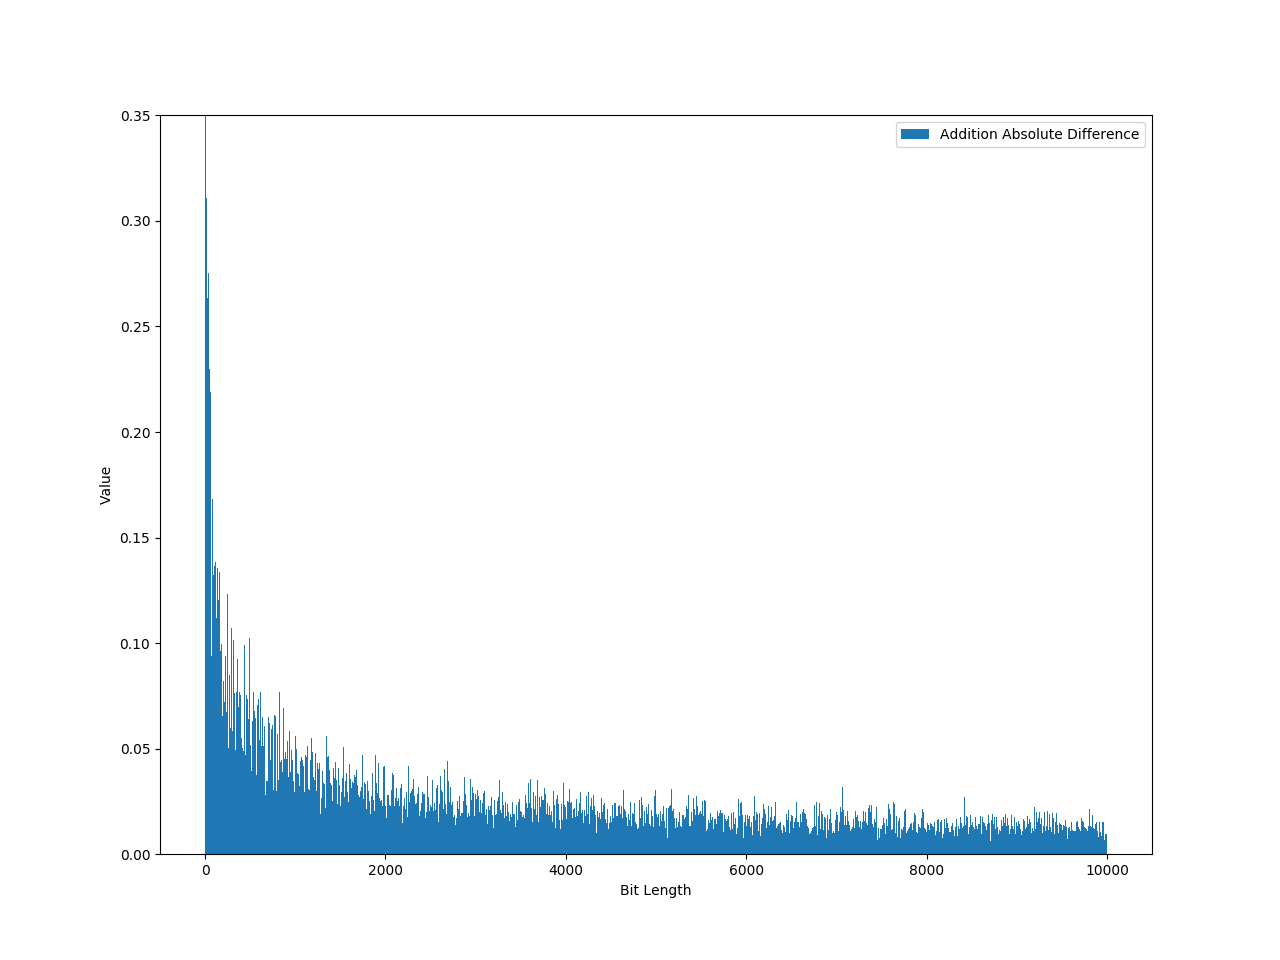
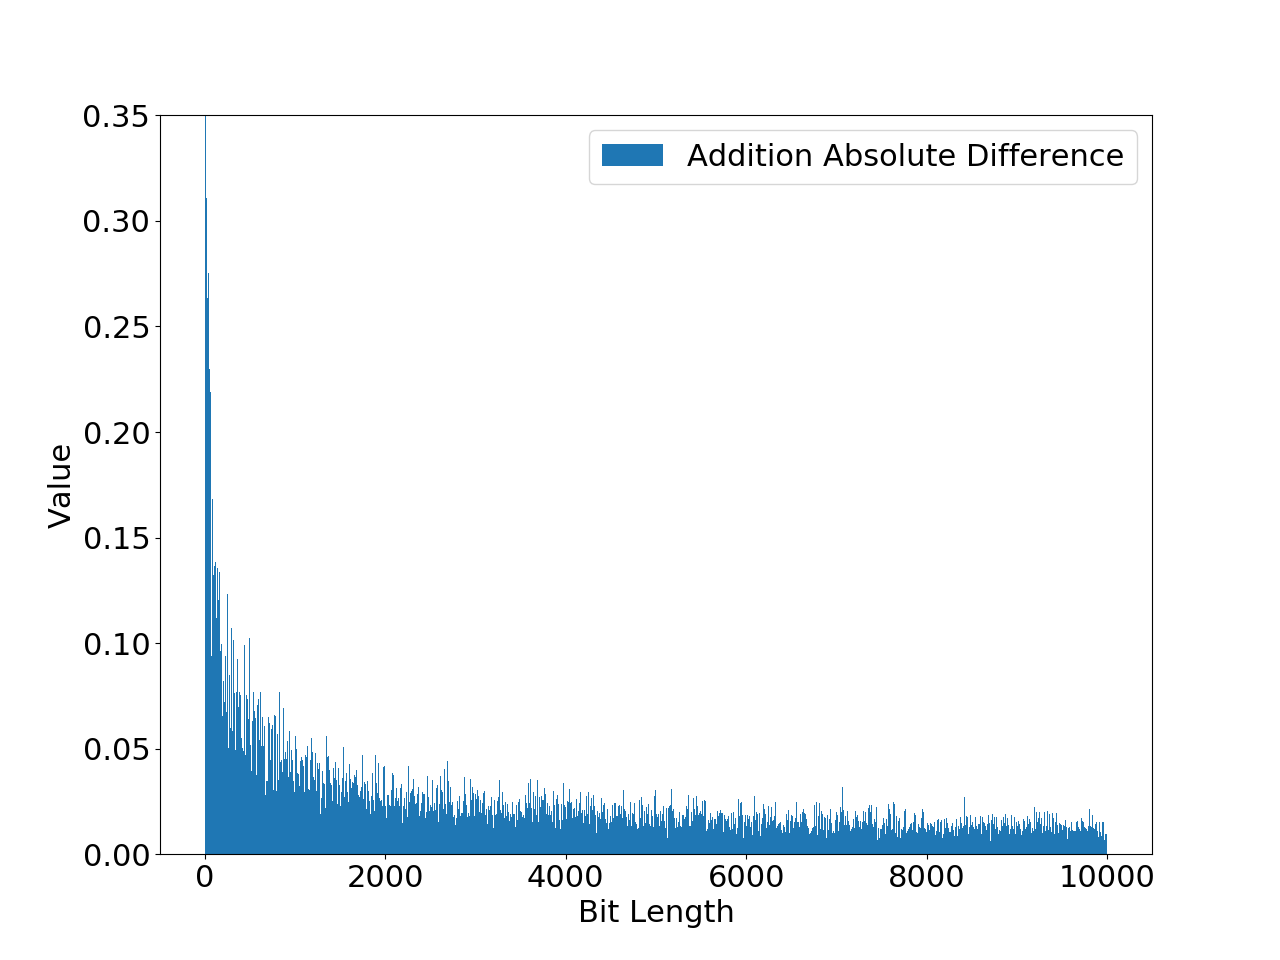
Final stuff

diff --git a/demos/stochastic-step.py b/demos/stochastic-step.py
@@ -1,0 +1,152 @@
+# -*- coding: utf-8 -*-
+"""
+This little code illustrates results of adding and multiplying 2 stochastic bit
+streams of varying length (length default 16). The stochastic bit streams are
+set by probabilities, prob1 and prob2.
+
+The stochastic bit stream outputs are converted back to a probability for ease
+of visualisation. The plots show the probabilities vary around their ideal 
+value.
+
+@author: tarah
+"""
+import math
+import secrets
+import matplotlib.pyplot as plt
+
+class StochasticNumber:
+    def __init__(self,length,prob1,prob2):
+        random = secrets.SystemRandom()
+
+        self.length = length
+        self.stochnum1 = [random.random() <= prob1 for n in range(length)]
+        self.stochnum2 = [random.random() <= prob2 for n in range(length)]
+
+    def add(self):
+        out = [0 for n in range(self.length)]
+        sel = [secrets.randbelow(2) for n in range(self.length)] # this will (on average) give weighting of 0.5
+
+        # Non saturating addition
+        #for k in range(self.length):
+        #    # Add is a multiplexer with 2 inputs and select line that is on average 0.5
+        #    if sel[k]:              
+        #        out[k]=self.stochnum2[k]
+        #    else:
+        #        out[k]=self.stochnum1[k]
+
+        # Saturating addition
+        for k in range(self.length):
+            out[k] = self.stochnum1[k] | self.stochnum2[k] #Saturating addition is just logical OR
+
+        prob_out = sum(out)/float(self.length)
+        return prob_out
+    
+    def multiply(self):
+        out = [0 for n in range(self.length)]
+        for k in range(self.length):
+            out[k] = (self.stochnum1[k] & self.stochnum2[k]) # multiply is just logical AND
+        prob_out = sum(out)/float(self.length)
+        return prob_out
+
+class BiStochasticNumber:
+    def __init__(self,length,prob1,prob2):
+        random = secrets.SystemRandom()
+
+        self.length = length
+        self.stochnum1 = [random.random() <= (prob1+1)/2 for n in range(length)]
+        self.stochnum2 = [random.random() <= (prob2+1)/2 for n in range(length)]
+
+    def add(self):
+        out = [0 for n in range(self.length)]
+        sel = [secrets.randbelow(2) for n in range(self.length)] # this will (on average) give weighting of 0.5
+
+        # Non saturating addition
+        for k in range(self.length):
+            # Add is a multiplexer with 2 inputs and select line that is on average 0.5
+            if sel[k]:              
+                out[k]=self.stochnum2[k]
+            else:
+                out[k]=self.stochnum1[k]
+
+        # Saturating addition
+        #for k in range(self.length):
+        #    out[k] = self.stochnum1[k] | self.stochnum2[k] #Saturating addition is just logical OR
+
+        prob_out = sum(out)/float(self.length)
+        return (prob_out*2)-1
+    
+    def multiply(self):
+        out = [0 for n in range(self.length)]
+        for k in range(self.length):
+            out[k] = not (self.stochnum1[k] ^ self.stochnum2[k]) # multiply is just logical AND
+
+        prob_out = sum(out)/float(self.length)
+        return (prob_out*2)-1
+
+#main
+import random
+
+z = 0.1
+prob1 = random.random()*(z/2)
+prob2 = z-prob1
+
+resultAdd = []
+resultMul = []
+
+actualAdd = []
+actualMul = []
+
+for i in range(1,10000):
+    if (i%1000==0):
+        z += 0.1
+        print(i)
+
+    prob1 = random.random()*(z/2)
+    prob2 = z-prob1
+    SN = StochasticNumber(1000,prob1,prob2)
+
+    add = SN.add()
+    #multiply = SN.multiply()
+
+    resultAdd.append(add)
+    #resultMul.append(multiply)
+
+    actualAdd.append((prob1+prob2))
+    #actualMul.append(prob1*prob2)
+
+    #resultAddAbs.append(abs(add-(prob1+prob2)))
+    #resultMulAbs.append(abs(multiply-prob1*prob2))
+
+
+width = 6.4*2
+height = 4.8*2
+plt.rcParams.update({'font.size': 22})
+
+#plt.figure(frameon=False, figsize=(width, height))
+#plt.plot(resultMul, label='Stochastic multiplication result')
+#plt.plot(actualMul, label='Actual multiplication result')
+#plt.legend()
+#plt.xlabel('Bit Length')
+##plt.show()
+#plt.savefig('step-mul.png')
+
+plt.figure(frameon=False, figsize=(width, height))
+plt.plot(resultAdd, label='Stochastic addition result')
+plt.plot(actualAdd, label='Actual addition result')
+plt.legend()
+plt.xlabel('Iterations')
+plt.savefig('step-add-2.png')
+
+#plt.figure(frameon=False, figsize=(width, height))
+#plt.ylim(top=0.2)
+#plt.bar([i for i in range(1,10000)], resultMulAbs, label='Multiplication Absolute Difference') #0.5x025 = 0.125 is the expected output for prob1 = 0.5 and prob2 = 0.25
+#plt.legend()
+#plt.xlabel('Bit Length')
+#plt.savefig('Figure_1_bi_abs.png')
+
+#plt.figure(frameon=False, figsize=(width, height))
+#plt.ylim(top=0.2)
+#plt.bar([i for i in range(1,iters)], resultAddAbs, label='Addition Absolute Difference') #0.5x025 = 0.125 is the expected output for prob1 = 0.5 and prob2 = 0.25
+#plt.legend()
+#plt.xlabel('Bit Length')
+#plt.savefig('Figure_2-abs.png')

diff --git a/demos/stochastic-split.py b/demos/stochastic-split.py
@@ -4,8 +4,8 @@ import secrets
 import matplotlib.pyplot as plt
 
 RANDOM_RANGE = 20
-BIT_LENGTH_DECIMAL = 1000
-BIT_LENGTH_FLOAT = 1000
+BIT_LENGTH_DECIMAL = 10000
+BIT_LENGTH_FLOAT = 10000
 
 def test():
   # The 2 numbers we are planning to add/mult
@@ -20,11 +20,11 @@ def test():
 
   random_ = lambda: random.random()
   
-  sf1 = [random_() < f1 for _ in range(BIT_LENGTH_FLOAT)]
-  sf2 = [random_() < f2 for _ in range(BIT_LENGTH_FLOAT)]
+  sf1 = [random_() <= f1 for _ in range(BIT_LENGTH_FLOAT)]
+  sf2 = [random_() <= f2 for _ in range(BIT_LENGTH_FLOAT)]
   
-  sd1 = [random_() < d1/float(RANDOM_RANGE) for _ in range(BIT_LENGTH_DECIMAL)]
-  sd2 = [random_() < d2/float(RANDOM_RANGE) for _ in range(BIT_LENGTH_DECIMAL)]
+  sd1 = [random_() <= d1/float(RANDOM_RANGE) for _ in range(BIT_LENGTH_DECIMAL)]
+  sd2 = [random_() <= d2/float(RANDOM_RANGE) for _ in range(BIT_LENGTH_DECIMAL)]
 
   # Do addition
   rb = [random_() < 0.5 for _ in range(BIT_LENGTH_DECIMAL)]
@@ -41,9 +41,22 @@ def test():
 
   sfa = [sf1[i] & sf2[i] for i in range(BIT_LENGTH_FLOAT)]
   sda = [sd1[i] & sd2[i] for i in range(BIT_LENGTH_DECIMAL)]
+
+  adv = [sd1[i] & sf2[i] for i in range(BIT_LENGTH_FLOAT)]
+  bcv = [sd2[i] & sf1[i] for i in range(BIT_LENGTH_DECIMAL)]
+
+  d = (sum(sda)/float(BIT_LENGTH_DECIMAL))*RANDOM_RANGE**2
+  f = (sum(sfa)/float(BIT_LENGTH_FLOAT))
+
+  ad = (sum(adv)/float(BIT_LENGTH_DECIMAL))*RANDOM_RANGE
+  bc = (sum(bcv)/float(BIT_LENGTH_FLOAT))*RANDOM_RANGE
   
-  mult = (sum(sda)/float(BIT_LENGTH_DECIMAL)*float(RANDOM_RANGE**2)) + (sum(sfa)/float(BIT_LENGTH_FLOAT))
-  add = (sum(sdo)/float(BIT_LENGTH_DECIMAL)*float(RANDOM_RANGE)) + (sum(sfo)/float(BIT_LENGTH_FLOAT))
+  mult = d + ad + bc + f
+  #print('g')
+  #print(actual_mult)
+  #print(mult)
+
+  add = ((sum(sdo)/float(BIT_LENGTH_DECIMAL))*float(RANDOM_RANGE)) + (sum(sfo)/float(BIT_LENGTH_FLOAT))
 
   sd1 = [random_() <= v1/float(RANDOM_RANGE) for _ in range(BIT_LENGTH_DECIMAL+BIT_LENGTH_FLOAT)]
   sd2 = [random_() <= v2/float(RANDOM_RANGE) for _ in range(BIT_LENGTH_DECIMAL+BIT_LENGTH_FLOAT)]
@@ -84,15 +97,21 @@ for i in range(10000):
   mst.append(abs(actual_mult-stochastic_mult))
   mnst.append(abs(actual_mult-nstochastic_mult))
 
-#print("Actual multiplication: ", actual_mult)
-#print("Actual addition: ", actual_add)
+  #print('p')
+  #print(mst[-1])
+  #print(mnst[-1])
 
-#print("Stocas multiplication: ", stochastic_mult)
-#print("Normal Stocas addition: ", nstochastic_add*2)
-#print("Stocas addition: ", stochastic_add*2)
+  #print("Actual mult: ", abs(actual_mult-stochastic_mult))
+
+  #print("Normal multiplication: ", nstochastic_mult)
+  #print("Stocas multiplication: ", stochastic_mult)
+
+  #print("Normal Stocas addition: ", nstochastic_add)
+  #print("Stocas addition: ", stochastic_add)
 
 width = 6.4*2
 height = 4.8*2
+plt.rcParams.update({'font.size': 22})
 
 plt.figure(frameon=False, figsize=(width, height))
 plt.bar([i for i in range(10000)], ast, label='Split addition stochastic result', width=1.0)

diff --git a/demos/stochastic-avg.py b/demos/stochastic-avg.py
@@ -91,32 +91,37 @@ iters = 10000
 add_abs = []
 mul_abs = []
 
-for bit_length in range(1,iters):
-    if (bit_length%1000==0):
-        print(bit_length)
+#for bit_length in range(1,iters):
+#    if (bit_length%1000==0):
+#        print(bit_length)
+#
+#    add_abs.append(0)
+#    mul_abs.append(0)
+#
+#    for ii in range(10):
+#        prob1 = random.random()
+#        prob2 = random.random()
+#
+#        #SN = StochasticNumber(bit_length,prob1,prob2)
+#        SN = BiStochasticNumber(bit_length,prob1,prob2)
+#
+#        add = SN.add()
+#        multiply = SN.multiply()
+#
+#        add_abs[-1] += abs(add*2-(prob1+prob2))
+#        mul_abs[-1] += abs(multiply-(prob1*prob2))
+#
+#for i in range(len(add_abs)):
+#    add_abs[i] /= 10
+#    mul_abs[i] /= 10
 
-    add_abs.append(0)
-    mul_abs.append(0)
-
-    for ii in range(10):
-        prob1 = random.random()
-        prob2 = random.random()
-
-        #SN = StochasticNumber(bit_length,prob1,prob2)
-        SN = BiStochasticNumber(bit_length,prob1,prob2)
-
-        add = SN.add()
-        multiply = SN.multiply()
-
-        add_abs[-1] += abs(add*2-(prob1+prob2))
-        mul_abs[-1] += abs(multiply-(prob1*prob2))
-
-for i in range(len(add_abs)):
-    add_abs[i] /= 10
-    mul_abs[i] /= 10
+import pickle
+mul_abs = pickle.load(open('mult-bi','rb'))
+add_abs = pickle.load(open('add-bi','rb'))
 
 width = 6.4*2
 height = 4.8*2
+plt.rcParams.update({'font.size': 22})
 
 plt.figure(frameon=False, figsize=(width, height))
 plt.ylim(top=0.125)

diff --git a/demos/stochastic.py b/demos/stochastic.py
@@ -113,6 +113,7 @@ for bit_length in range(1,10000):
 
 width = 6.4*2
 height = 4.8*2
+plt.rcParams.update({'font.size': 22})
 
 plt.figure(frameon=False, figsize=(width, height))
 plt.plot(result_mul, label='Stochastic multiplication result')
